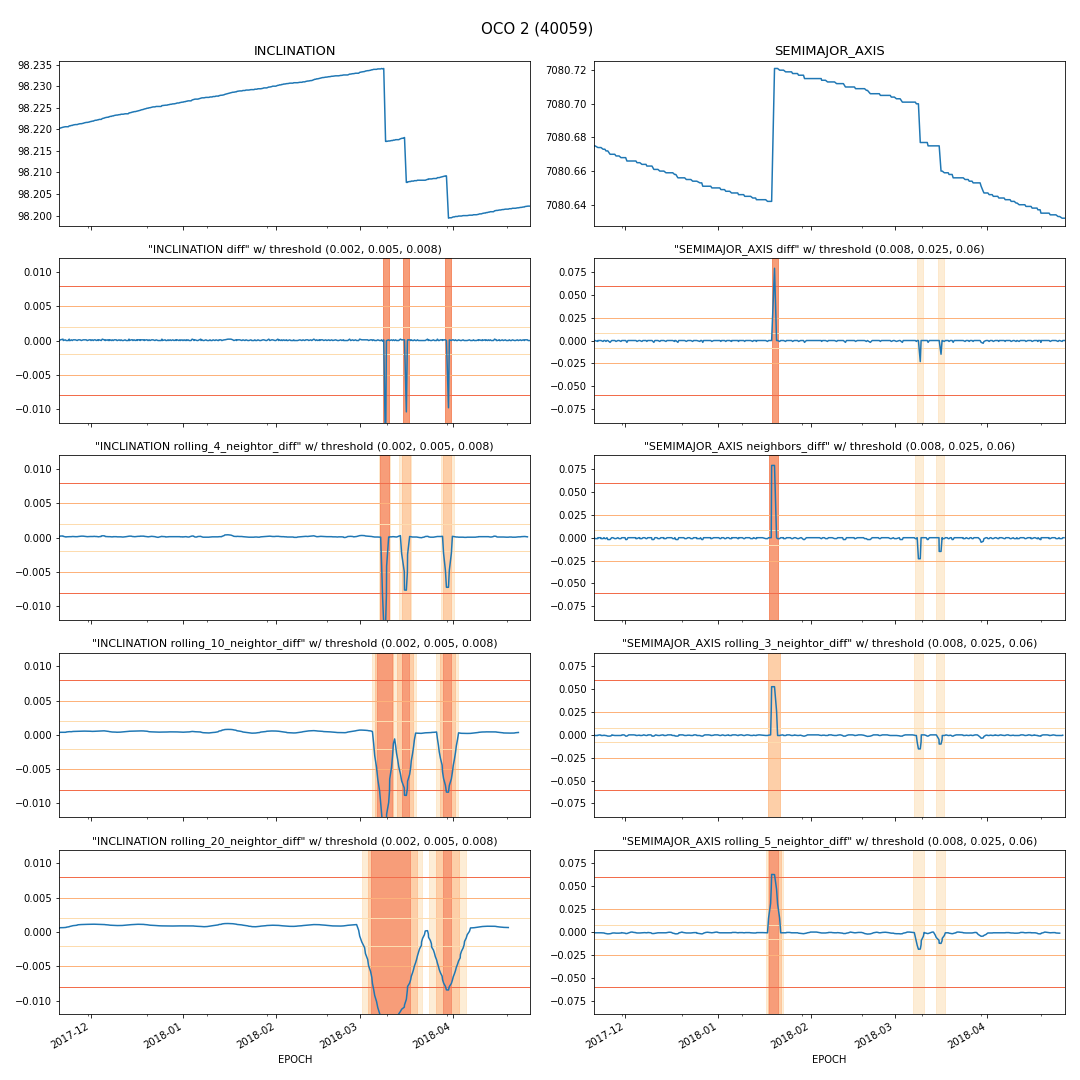
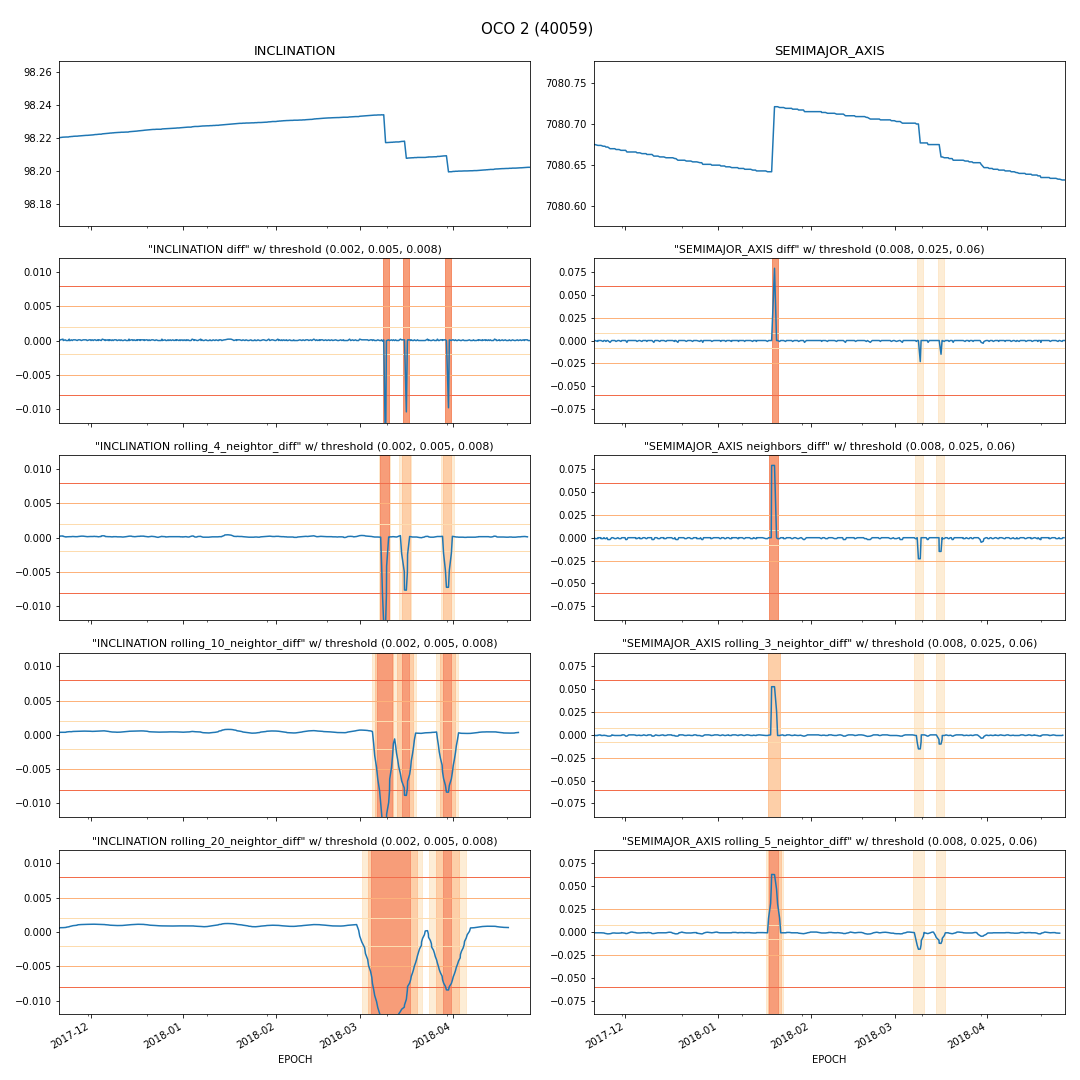
Improved image generation for maneuver visualization

diff --git a/playground/tim_detect_maneuver/detect_maneuver.py b/playground/tim_detect_maneuver/detect_maneuver.py
@@ -64,6 +64,8 @@ def plot_maneuvers(df, maneuver_results, sat_name):
         ax[0, i].set_title(key, fontsize=13)
         ax[0, i].set_xlim(df.index[0], df.index[-1])
         df[key].plot(ax=ax[0, i], label="_")
+        set_min_ylim(ax[0, i], (0.1 if key=="INCLINATION" else 0.2))
+
         ax[0, i].ticklabel_format(useOffset=False, style='plain',axis='y')
         for j, v in enumerate(maneuver_results[key]):
             ax[j+1, i].ticklabel_format(useOffset=False, style='plain',axis='y')
@@ -83,15 +85,15 @@ def plot_maneuvers(df, maneuver_results, sat_name):
                     ax[j+1,i].axvspan(er.start, er.end, alpha=0.5, color=cmap((k+1)/(len(thresholds)+2)), label="_")
     return fig
 
-def set_min_ylim(ax,v):
+def set_min_ylim(ax,v, ratio=0.5):
     sa1,sa2 = ax.get_ylim()
-    if sa2-sa1 < v:
+    if sa2-sa1 < v*0.8:
         sa = (sa1+sa2)/2
-        ax.set_ylim(sa-v/2, sa+v/2)
+        ax.set_ylim(sa-(v*ratio), sa+(v*(1-ratio)))
 
 def plot_combined_maneuvers(fig, ax, df, event_range, sat_name):
     fig.suptitle(sat_name, fontsize=15)
-    ax.set_title("Maneuvers Detected", fontsize=13)
+    ax.set_title(f"{len(event_range)} Maneuvers Detected", fontsize=13)
     ax.set_xlim(df.index[0], df.index[-1])
     df['SEMIMAJOR_AXIS'].plot(ax=ax, label="SEMIMAJOR_AXIS")
     # set ylim minimum: 0.1 inclination 0.2 semimajor
@@ -101,8 +103,8 @@ def plot_combined_maneuvers(fig, ax, df, event_range, sat_name):
     ax2.set_ylabel("Inclination")
     ax.ticklabel_format(useOffset=False, style='plain',axis='y')
     ax2.ticklabel_format(useOffset=False, style='plain',axis='y')
-    set_min_ylim(ax,0.2)
-    set_min_ylim(ax2,0.1)
+    set_min_ylim(ax, 0.2, 0.4)
+    set_min_ylim(ax2, 0.1, 0.6)
     for _,er in event_range.iterrows():
         ax.axvspan(er.start, er.end, alpha=0.5, color="#ffd2ae", label="_")
     
@@ -158,8 +160,7 @@ def plot_maneuver_results(df, satcat, norad_id, df_slice, maneuver_functions, co
 def plot_extra_lines(ax, sat, probs, soc_data):
     for e in sat.index:
         ax.axvline(x=e, lw=1, c="#00000033")
-    ax2 = ax.twinx()
-    (probs*100).plot(ax=ax2, color="purple", legend=False)
-    ax2.yaxis.set_major_formatter(mtick.PercentFormatter())
+    (probs*100).plot(ax=ax, color="purple", legend=False)
+    ax.yaxis.set_major_formatter(mtick.PercentFormatter())
     ax.axvline(x=soc_data.extract_date.min(), lw=2, c="green")
     ax.axvline(x=soc_data.tca_time.mean(), lw=2, c="red")
